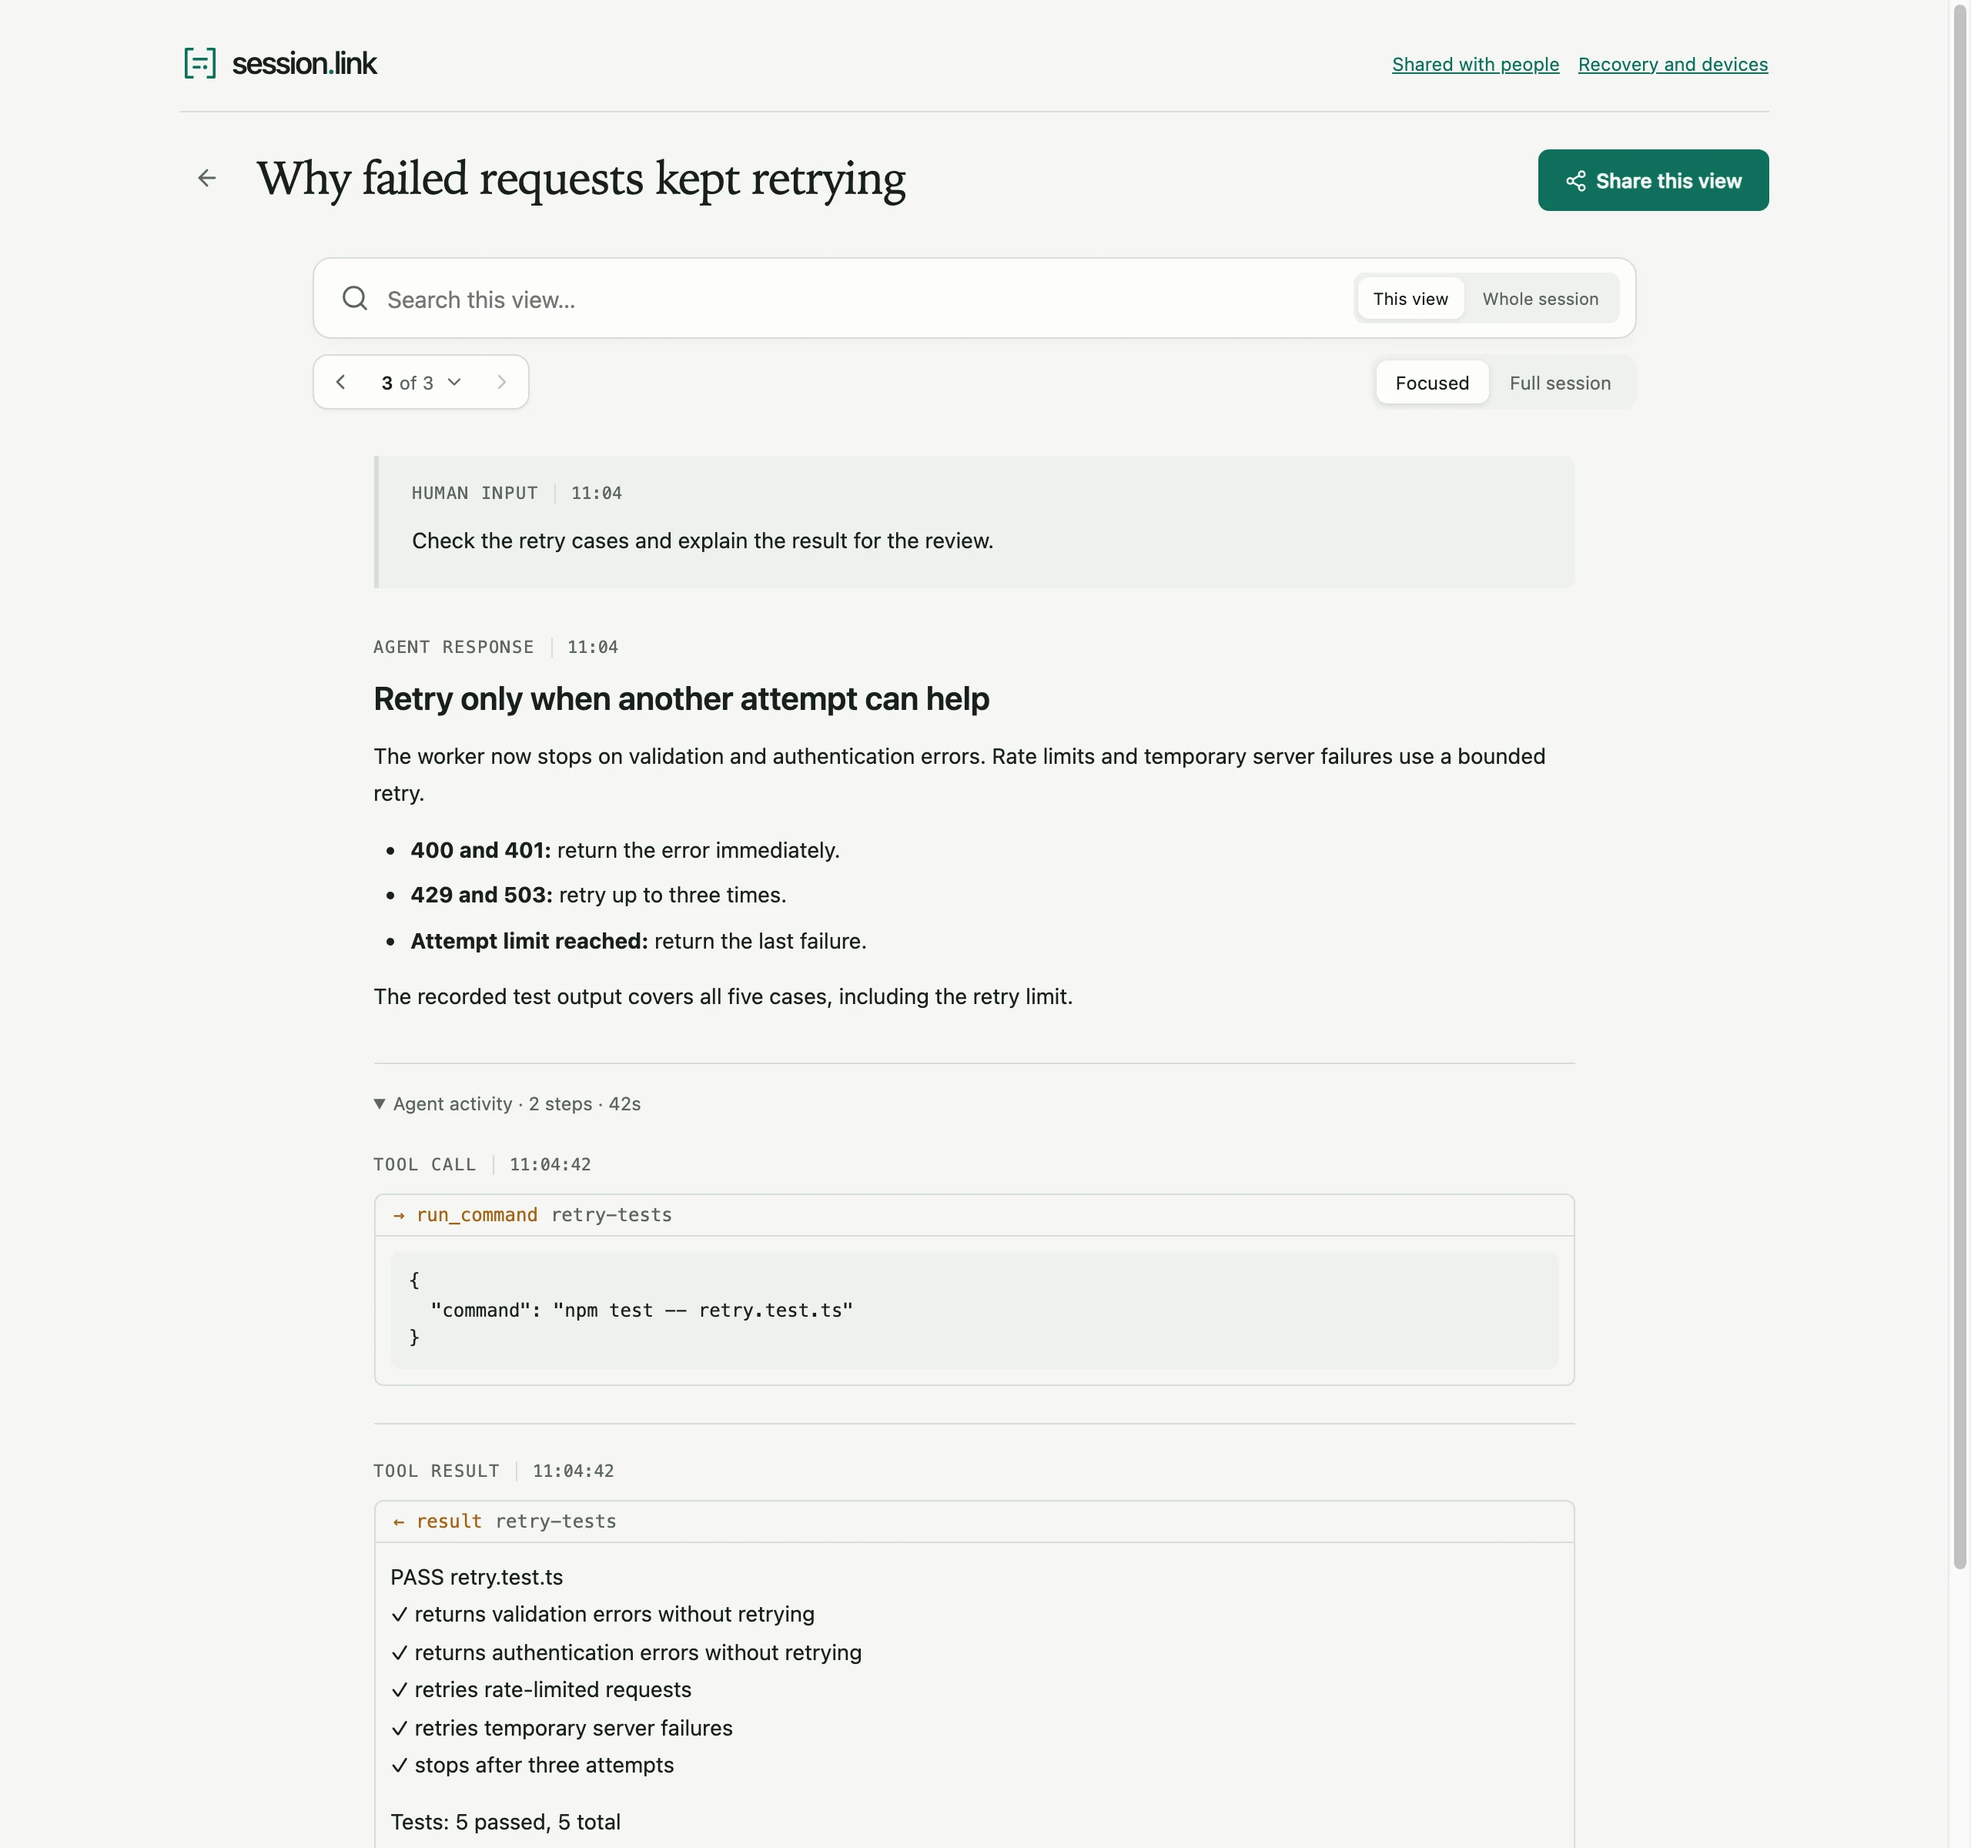
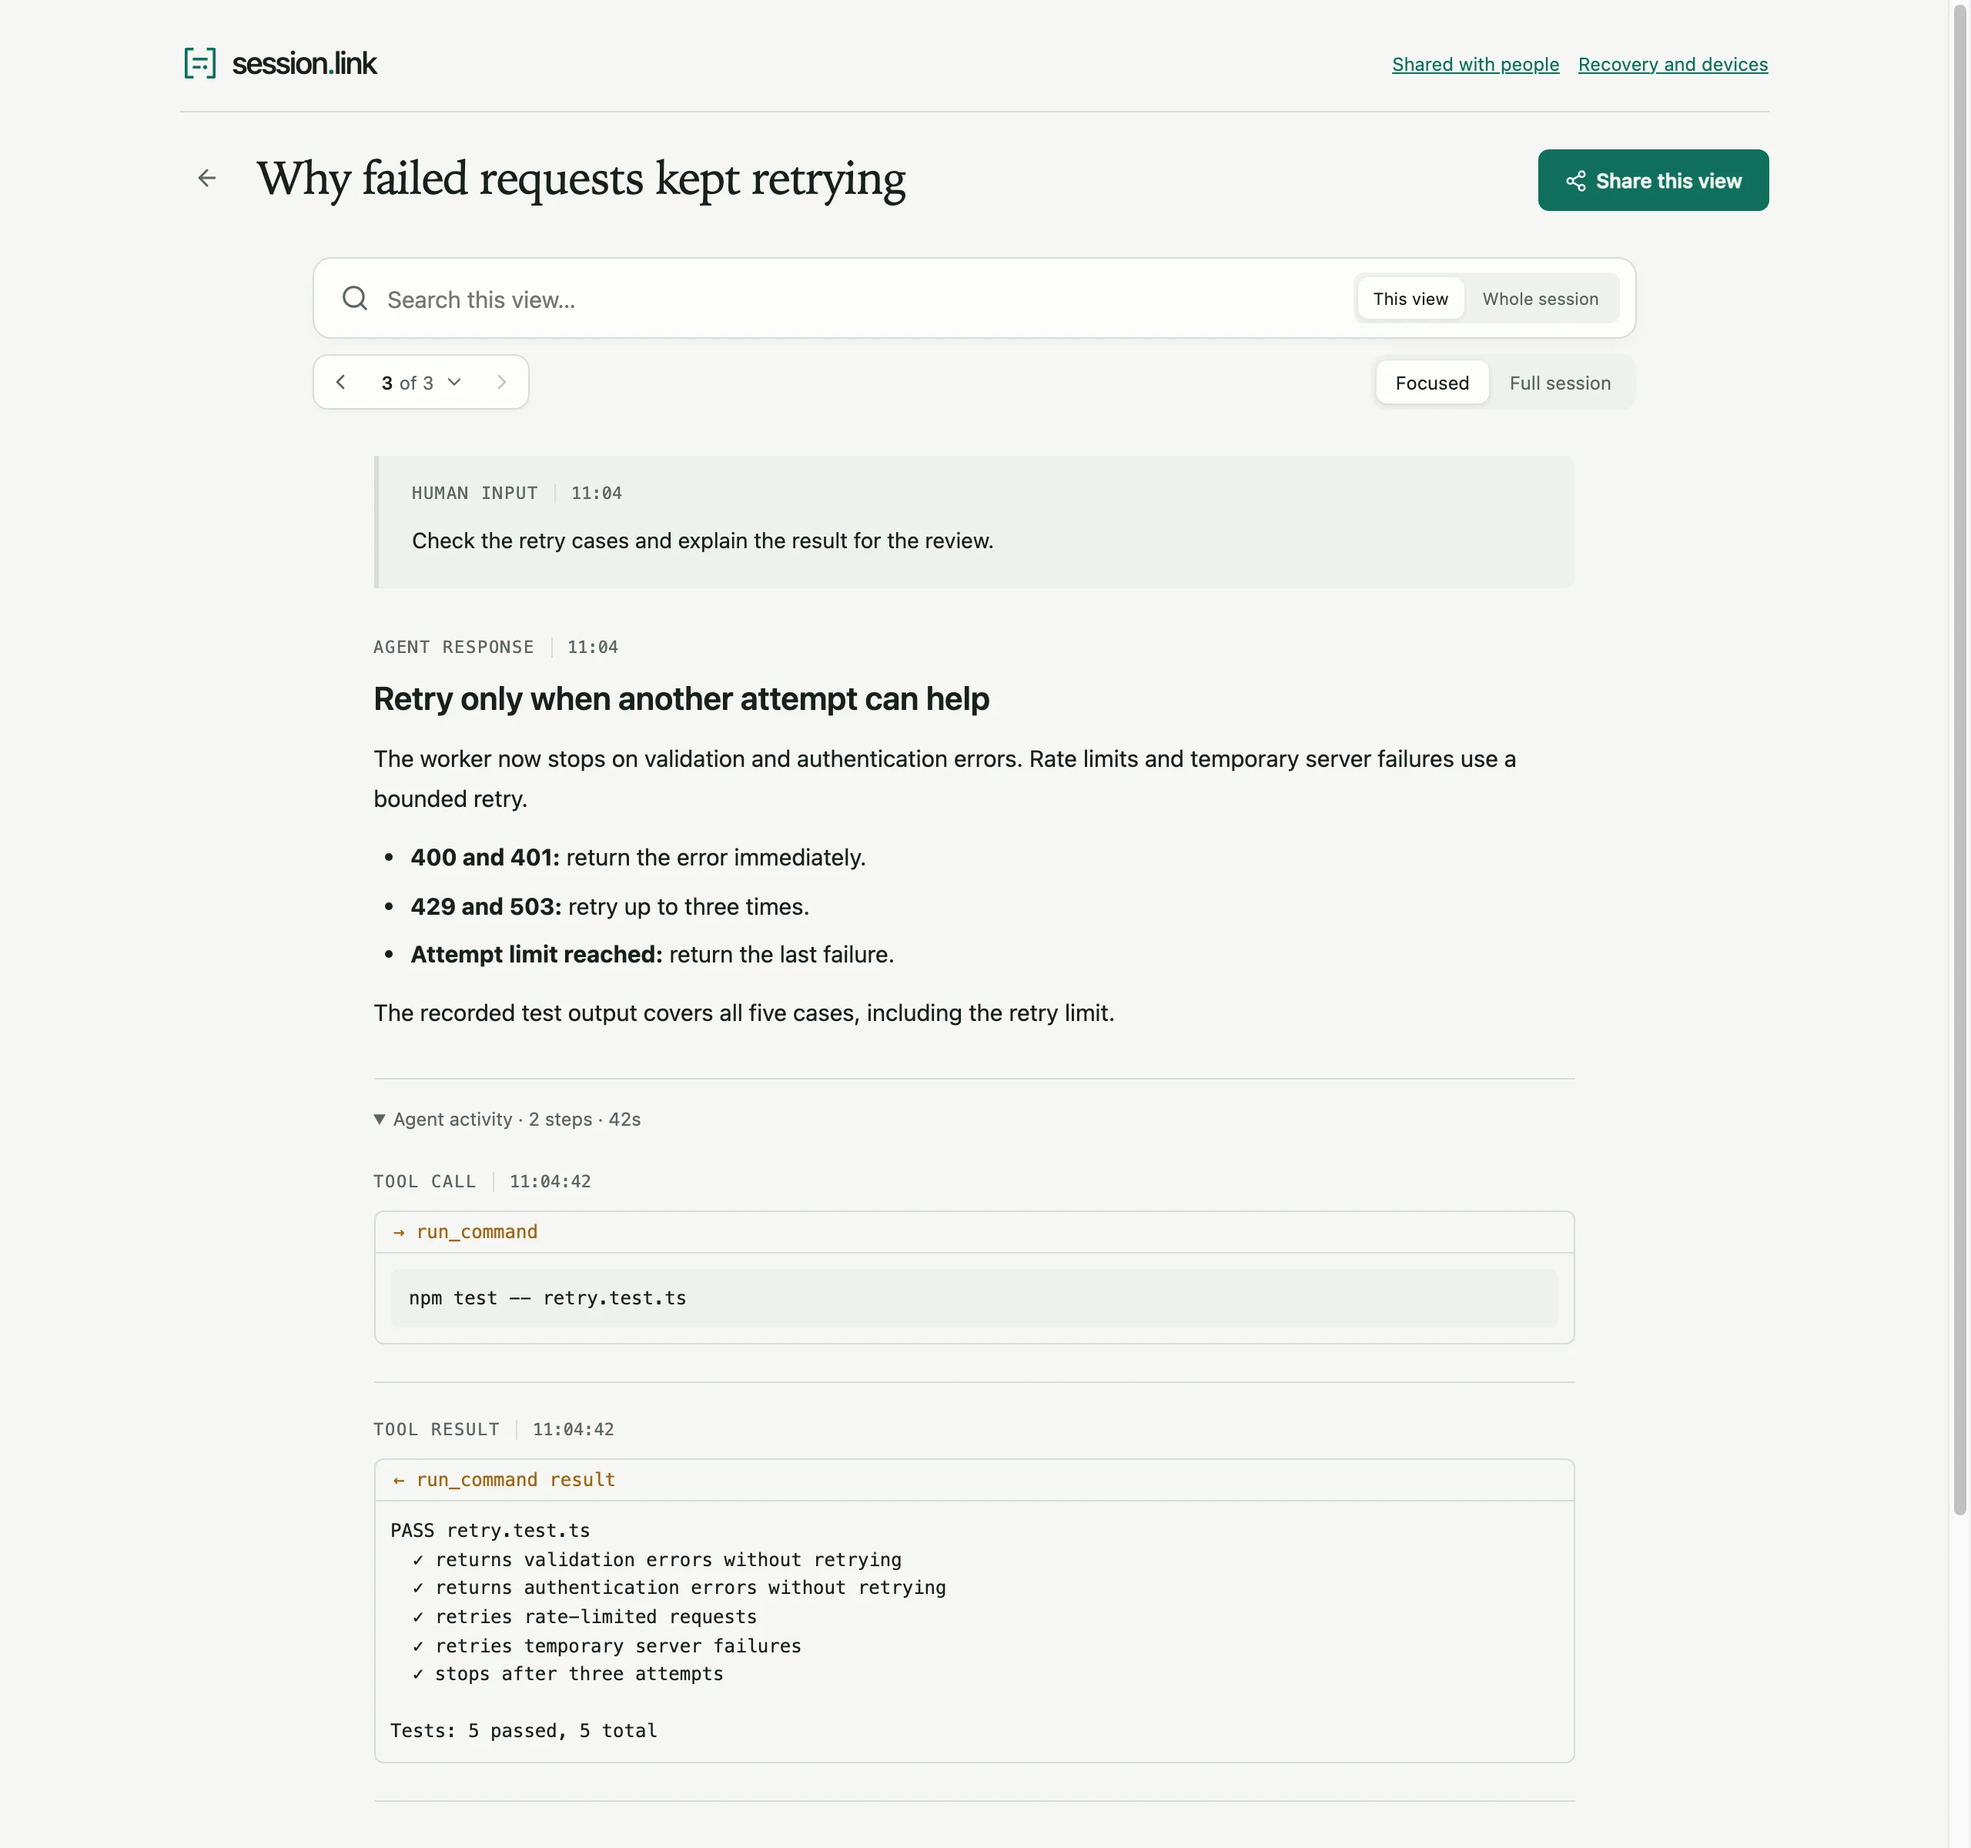
Recapture product screenshots after the viewer UX fixes
The captures come from the tree at cc8a9eb, rebuilt and captured with
scripts/capture-product.mjs from the same fictional landing sessions.
Agent activity shows the command it ran and verbatim, monospaced test
output. The phone capture's header links wrap below the wordmark instead of
colliding with it, and its pager and scope controls are larger. View
preparation keeps its Preview, Save locally and Publish link actions in view,
and answers render at 15px. Search results quote readable text instead of
stored JSON and Markdown table syntax. The README names the capture commit.

diff --git a/assets/product/README.md b/assets/product/README.md
@@ -1,7 +1,7 @@
 # Product screenshots
 
 These are browser captures of the current local product, built from the working
-tree at `9bc212f`, including the adopted Excerpt identity. The interface is
+tree at `cc8a9eb`, including the adopted Excerpt identity. The interface is
 captured as rendered by the product, at a device scale factor of 2, so each
 file has twice the pixel dimensions listed below and stays sharp on HiDPI
 screens. Sizes are CSS pixels; the landing page declares the same sizes. The sessions are fictional examples
